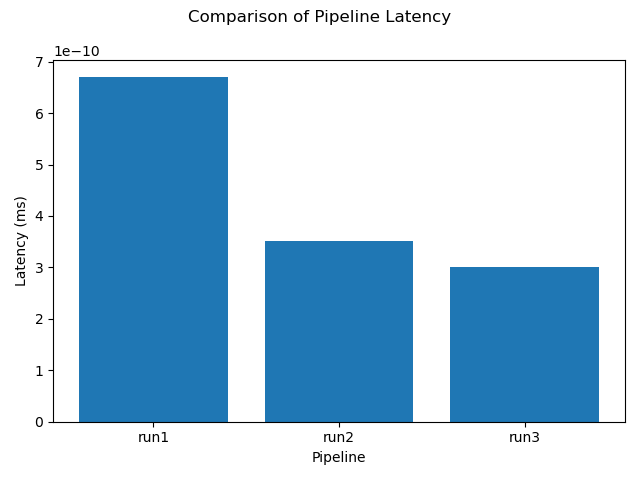
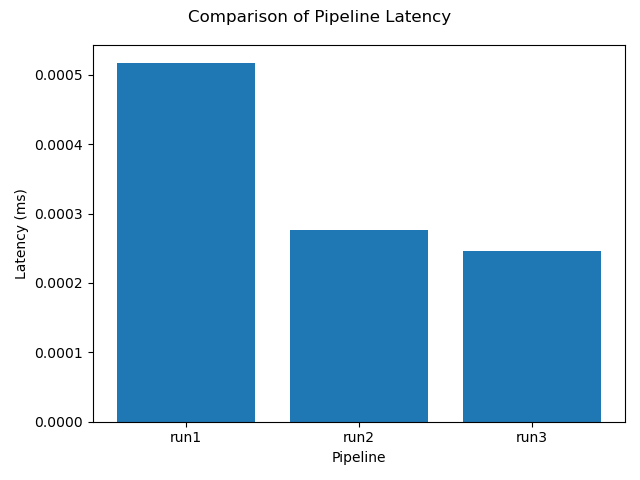
Finish part 2

diff --git a/part2.py b/part2.py
@@ -113,7 +113,7 @@ class ThroughputHelper:
         plt.xlabel("Pipeline")
         # Set the font size here to stop graph from smushing
         for label in plt.gca().get_xticklabels():
-            label.set_fontsize(6)
+            label.set_fontsize(5)
         plt.ylabel("Throughput (inputs / sec)")
         plt.suptitle("Comparison of Pipeline Throughput")
         plt.title(f"Retry Count: {NUM_RUNS}")
@@ -242,7 +242,7 @@ class LatencyHelper:
                 end_time = time.perf_counter()
                 elapsed = (
                     end_time - start_time
-                ) / 1000  # perfcounter returns in seconds.
+                ) * 1000  # perfcounter returns in seconds.
                 accumulator += elapsed
             latencies.append(accumulator / NUM_RUNS)  # get average time
 
@@ -619,9 +619,9 @@ def fromvar_latency():
 def q9a():
     # Add all 6 pipelines for a throughput comparison
     h = ThroughputHelper()
-    h.add_pipeline("baseline_small", len(load_input_small()), baseline_small)
-    h.add_pipeline("baseline_medium", len(load_input_medium()), baseline_medium)
-    h.add_pipeline("baseline_large", len(load_input_large()), baseline_large)
+    h.add_pipeline("baseline_small", len(POPULATION_SMALL), baseline_small)
+    h.add_pipeline("baseline_medium", len(POPULATION_MEDIUM), baseline_medium)
+    h.add_pipeline("baseline_large", len(POPULATION_LARGE), baseline_large)
     h.add_pipeline("fromvar_small", len(POPULATION_SMALL), fromvar_small)
     h.add_pipeline("fromvar_medium", len(POPULATION_MEDIUM), fromvar_medium)
     h.add_pipeline("fromvar_large", len(POPULATION_LARGE), fromvar_large)
@@ -687,14 +687,86 @@ Create a new pipeline:
 def for_loop_pipeline(df):
     # Input: the dataframe from load_input()
     # Return a list of min, median, max, mean, and standard deviation
-    raise NotImplementedError
+
+    # We need to iterate over each "entity" chunk until we hit the end of a block.
+    avg_year_delta = []
+
+    # Set up for loop with initial data (i.e. first row)
+    current_row = df.iloc[0, :]
+    current_entity = current_row["Entity"]  # get first row
+    first_year = current_row["Year"]
+    last_year = current_row["Year"]
+    first_pop = current_row["Population (historical)"]
+    last_pop = current_row["Population (historical)"]
+
+    for i in range(1, len(df)):
+        # Sample the ith row
+        inspect_row = df.iloc[i, :]
+        # If we are still in the chunk, and the new year is greater than the previous, increment years and population data.
+        if inspect_row["Entity"] == current_entity:
+            current_year = inspect_row["Year"]
+            if current_year > first_year:
+                last_year = current_year
+                last_pop = inspect_row["Population (historical)"]
+        else:
+            # we're on a new country now, so calc averages
+            if first_year != last_year:  # throw out single year examples
+                avg_year_delta.append((last_pop - first_pop) / (last_year - first_year))
+            # begin tracking the new country
+            current_row = df.iloc[i, :]
+            current_entity = current_row["Entity"]  # get first row
+            first_year = current_row["Year"]
+            last_year = current_row["Year"]
+            first_pop = current_row["Population (historical)"]
+            last_pop = current_row["Population (historical)"]
+
+    # calculate the average for the final year as well
+    if first_year != last_year:  # throw out single year examples
+        avg_year_delta.append((last_pop - first_pop) / (last_year - first_year))
+
+    # Return a list of min, median, max, mean, and standard deviation
+    retlist = []
+
+    avg_year_delta.sort()
+    # calculate min
+    retlist.append(float(avg_year_delta[0]))
+
+    # calculate median
+    if len(avg_year_delta) % 2 != 0:
+        retlist.append(float(avg_year_delta[len(avg_year_delta) // 2]))
+    else:
+        # average the centre 2 elements.
+        mid1 = avg_year_delta[len(avg_year_delta) // 2 - 1]
+        mid2 = avg_year_delta[len(avg_year_delta) // 2]
+        retlist.append(float((mid1 + mid2) / 2))
+
+    # calculate max
+    retlist.append(float(avg_year_delta[len(avg_year_delta) - 1]))
+
+    # calculate mean
+    accumulator = 0
+    for val in avg_year_delta:
+        accumulator += val
+    mean = accumulator / len(avg_year_delta)
+    retlist.append(float(mean))
+
+    # calculate stdev
+    numerator = 0
+    if len(avg_year_delta) > 0:
+        for val in avg_year_delta:
+            numerator += (val - mean) ** 2
+        retlist.append(
+            float((numerator / (len(avg_year_delta) - 1)) ** 0.5)
+        )  # note: pandas uses sample standard deviation
+
+    return retlist
 
 
 def q11():
     # As your answer to this part, call load_input() and then
     # for_loop_pipeline() to return the 5 numbers.
     # (these should match the numbers you got in Q6.)
-    raise NotImplementedError
+    return for_loop_pipeline(load_input("./data/population.csv"))
 
 
 """
@@ -706,19 +778,22 @@ As before, write 4 pipelines based on the datasets from Q7.
 
 
 def for_loop_small():
-    raise NotImplementedError
+    return for_loop_pipeline(load_input_small())
 
 
 def for_loop_medium():
-    raise NotImplementedError
+    return for_loop_pipeline(load_input_medium())
 
 
 def for_loop_large():
-    raise NotImplementedError
+    return for_loop_pipeline(load_input_large())
 
 
 def for_loop_latency():
-    raise NotImplementedError
+    # run an example with two rows.
+    two_row = load_input_small().iloc[0:2, :]
+    assert len(two_row) == 2
+    return for_loop_pipeline(two_row)
 
 
 def q12():
@@ -746,14 +821,29 @@ def q13a():
     # Add all 6 pipelines for a throughput comparison
     # Generate plot in ouptut/q13a.png
     # Return list of 6 throughputs
-    raise NotImplementedError
+    h = ThroughputHelper()
+    h.add_pipeline("baseline_small", len(POPULATION_SMALL), baseline_small)
+    h.add_pipeline("baseline_medium", len(POPULATION_MEDIUM), baseline_medium)
+    h.add_pipeline("baseline_large", len(POPULATION_LARGE), baseline_large)
+    h.add_pipeline("for_loop_small", len(POPULATION_SMALL), for_loop_small)
+    h.add_pipeline("for_loop_medium", len(POPULATION_MEDIUM), for_loop_medium)
+    h.add_pipeline("for_loop_large", len(POPULATION_LARGE), for_loop_large)
+
+    h.compare_throughput()
+    h.generate_plot("output/part2-q13a.png")
+    return h.throughputs
 
 
 def q13b():
     # Add 2 pipelines for a latency comparison
     # Generate plot in ouptut/q13b.png
     # Return list of 2 latencies
-    raise NotImplementedError
+    h = LatencyHelper()
+    h.add_pipeline("baseline_latency", baseline_latency)
+    h.add_pipeline("for_loop_latency", for_loop_latency)
+    h.compare_latency()
+    h.generate_plot("output/part2-q13b.png")
+    return h.latencies
 
 
 """
@@ -763,20 +853,21 @@ Comment on the results you got!
 14a. Which pipelines is faster in terms of throughput?
 
 ===== ANSWER Q14a BELOW =====
-
+Vectorized pipeline is much faster in terms of throughput
 ===== END OF Q14a ANSWER =====
 
 14b. Which pipeline is faster in terms of latency?
 
 ===== ANSWER Q14b BELOW =====
-
+For Loop pipeline is faster in terms of latency
 ===== END OF Q14b ANSWER =====
 
 14c. Do you notice any other interesting observations?
 What does this experiment show?
 
 ===== ANSWER Q14c BELOW =====
-
+Even though the for loop latency is mildly faster (~4ms), the throughput is completely awful, being several times slower than vectorized.
+This experiment shows that, even though there is overhead from using pandas, it is likely not worth the effort to use for loops.
 ===== END OF Q14c ANSWER =====
 """
 
@@ -789,7 +880,8 @@ Which factor that we tested (file vs. variable, vectorized vs. for loop)
 had the biggest impact on performance?
 
 ===== ANSWER Q15 BELOW =====
-
+The factor of vectorized vs. for loop had the biggest impact on performance, especially in throughput (vectorization increases throughput several times over). However, the impact of file vs. variable
+on throughput is still quite notable.
 ===== END OF Q15 ANSWER =====
 
 16.
@@ -800,7 +892,8 @@ varies with the size of the input dataset.
 This is an open ended question.)
 
 ===== ANSWER Q16 BELOW =====
-
+Given the results in q13a.png and q9a.png, throughput is positively correlated with the size of the input dataset (at least in this synthetic test).
+Regardless of vectorization/for loop or file/variable, the throughput increased with larger datasets.
 ===== END OF Q16 ANSWER =====
 
 17.
@@ -811,7 +904,8 @@ throughput is related to latency.
 This is an open ended question.)
 
 ===== ANSWER Q17 BELOW =====
-
+I would argue that throughput is negatively correlated to latency, even though this is not an apples to apples as latency operates on singular rows only.
+Changes made to increase throughput (such as switching to vectorization or switching to in-RAM variables) either has no effect on latency, or causes latency to increase.
 ===== END OF Q17 ANSWER =====
 """
 
@@ -845,16 +939,90 @@ and generate plots for each of these in the following files:
     output/part2-ec-b.png
 """
 
+
 # Extra credit (optional)
+# Let's test the throughput of cloning dataframes and saving vs copying a source file directly.
+# reuse the previous data.
+#
+def ec_helper_clone_df(data):
+    newdf = data.copy()
+    newdf.to_csv("data/ec/junk.csv")
+
+
+def ec_helper_clone_df_small():
+    ec_helper_clone_df(POPULATION_SMALL)
+
+
+def ec_helper_clone_df_medium():
+    ec_helper_clone_df(POPULATION_MEDIUM)
+
+
+def ec_helper_clone_df_large():
+    ec_helper_clone_df(POPULATION_LARGE)
+
+
+def ec_helper_clone_df_single():
+    ec_helper_clone_df(POPULATION_SINGLE_ROW)
+
+
+def ec_helper_fs_copy(fname):
+    with open("data/junk.csv", "w") as f1:
+        with open(fname) as f2:
+            f2text = f2.read()
+            f1.write(f2text)
+
+
+def ec_helper_fs_copy_small():
+    ec_helper_fs_copy("data/population-small.csv")
+
+
+def ec_helper_fs_copy_medium():
+    ec_helper_fs_copy("data/population-medium.csv")
+
+
+def ec_helper_fs_copy_large():
+    ec_helper_fs_copy("data/population.csv")
+
+
+def ec_helper_fs_copy_single():
+    ec_helper_fs_copy("data/population-single-row.csv")
 
 
 def extra_credit_a():
-    raise NotImplementedError
+    h = ThroughputHelper()
+    h.add_pipeline(
+        "ec_helper_fs_copy_small", len(POPULATION_SMALL), ec_helper_fs_copy_small
+    )
+    h.add_pipeline(
+        "ec_helper_fs_copy_medium", len(POPULATION_MEDIUM), ec_helper_fs_copy_medium
+    )
+    h.add_pipeline(
+        "ec_helper_fs_copy_large", len(POPULATION_LARGE), ec_helper_fs_copy_large
+    )
+    h.add_pipeline(
+        "ec_helper_clone_df_small", len(POPULATION_SMALL), ec_helper_clone_df_small
+    )
+    h.add_pipeline(
+        "ec_helper_clone_df_medium", len(POPULATION_MEDIUM), ec_helper_clone_df_medium
+    )
+    h.add_pipeline(
+        "ec_helper_clone_df_large", len(POPULATION_LARGE), ec_helper_clone_df_large
+    )
+    h.compare_throughput()
+    h.generate_plot("output/part2-ec-a.png")
+    return h.throughputs
 
 
 def extra_credit_b():
-    raise NotImplementedError
+    h = LatencyHelper()
+    h.add_pipeline("ec_helper_fs_copy_single", ec_helper_fs_copy_single)
+    h.add_pipeline("ec_helper_clone_df_single", ec_helper_clone_df_single)
+    h.compare_latency()
+    h.generate_plot("output/part2-ec-b.png")
+    return h.latencies
 
+
+# python filesystem copy is much faster in both throughput and latency.
 
 """
 ===== Wrapping things up =====

diff --git a/part1.py b/part1.py
@@ -1129,7 +1129,7 @@ def q21():
     fake_data = pd.read_csv("data/2021_falsified.csv", encoding="latin-1")
     fake_data = fake_data.sort_values("Overall Score", ascending=False)
 
-    return list(fake_data.iloc[0:10, 2])
+    return list(fake_data.iloc[0:10, 1])
     # return list(fake_data.iloc[0:10, 1])
 
     # return as a list
